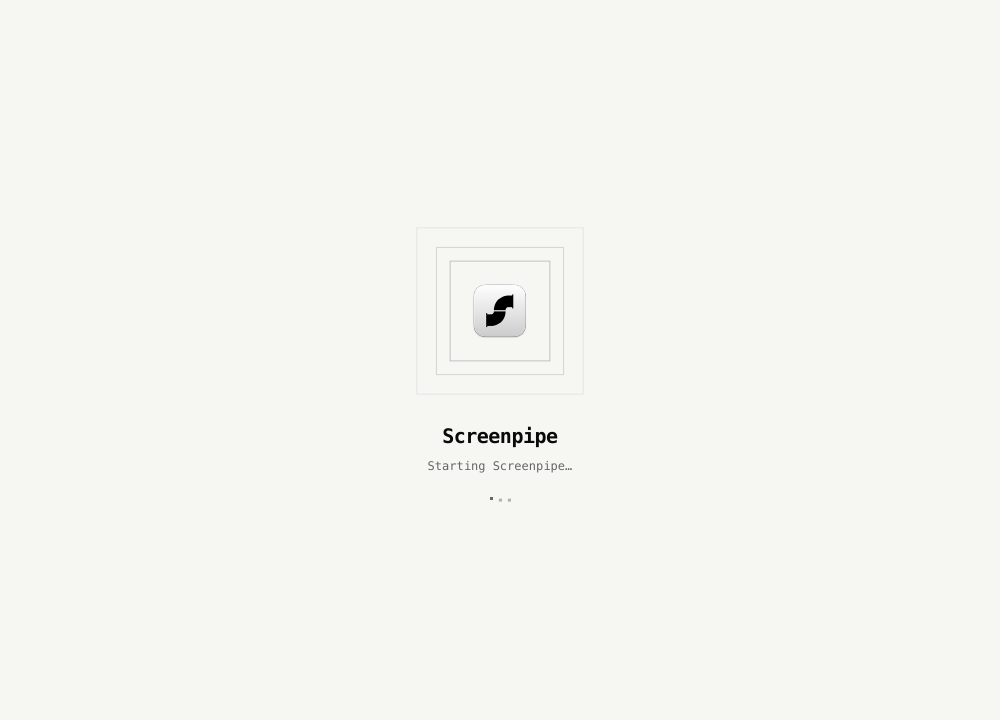
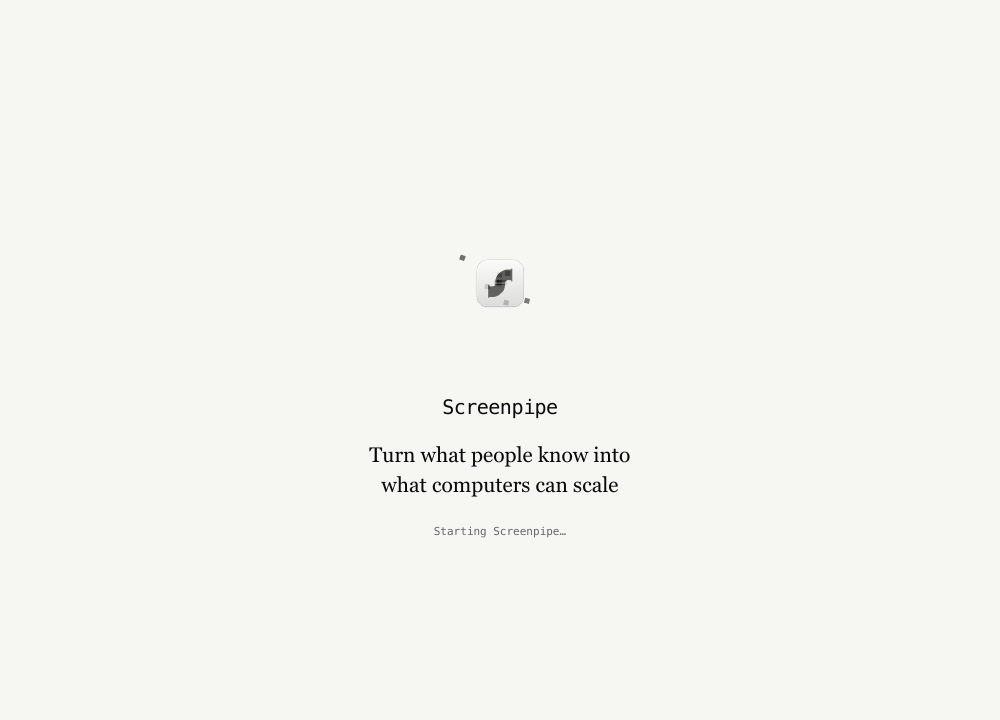
Use Fragments to focus startup motion and vision copy

Changed region(s): [[0.372, 0.55, 0.62, 0.7028], [0.434, 0.3361, 0.527, 0.4889], [0.434, 0.7333, 0.558, 0.7639]]

diff --git a/apps/screenpipe-app-tauri/components/startup-loader.module.css b/apps/screenpipe-app-tauri/components/startup-loader.module.css
@@ -3,74 +3,66 @@
 
 .mark {
   position: relative;
-  display: grid;
-  width: 184px;
-  height: 184px;
-  place-items: center;
+  width: 232px;
+  height: 210px;
 }
 
 .mark img {
-  position: relative;
-  width: 64px;
-  height: 64px;
-}
-
-.frame {
   position: absolute;
-  inset: 40px;
-  border: 1px solid currentColor;
-  opacity: 0.22;
-  animation: unfold 3.6s ease-in-out infinite;
+  left: 86px;
+  top: 75px;
+  width: 60px;
+  height: 60px;
+  animation: focus 4s ease-in-out infinite;
 }
 
-.frame:nth-child(2) {
-  inset: 24px;
-  opacity: 0.13;
-  animation-delay: -2.4s;
-}
-
-.frame:nth-child(3) {
-  inset: 8px;
-  opacity: 0.07;
-  animation-delay: -1.2s;
-}
-
-.dots {
-  display: flex;
-  gap: 6px;
-  margin-top: 24px;
-  color: hsl(var(--muted-foreground));
-}
-
-.dots span {
-  width: 3px;
-  height: 3px;
+.fragment {
+  position: absolute;
+  left: 113px;
+  top: 102px;
+  width: 5px;
+  height: 5px;
   background: currentColor;
-  opacity: 0.3;
-  animation: breathe 1.8s ease-in-out infinite;
+  opacity: 0;
+  animation: gather 4s cubic-bezier(0.4, 0, 0.2, 1) infinite;
 }
 
-.dots span:nth-child(2) {
-  animation-delay: -1.2s;
+.vision {
+  width: 100%;
+  max-width: 390px;
+  margin-top: 20px;
+  font-family: Georgia, Baskerville, serif;
+  font-size: 21px;
+  font-weight: 400;
+  line-height: 1.4;
+  text-wrap: balance;
+  animation: reveal 0.9s ease-out both;
 }
 
-.dots span:nth-child(3) {
-  animation-delay: -0.6s;
+@keyframes gather {
+  0% { transform: translate(var(--x), var(--y)) rotate(45deg); opacity: 0; }
+  15% { opacity: 0.6; }
+  58% { transform: translate(0, 0) rotate(0); opacity: 0.25; }
+  75%, 100% { transform: translate(0, 0); opacity: 0; }
 }
 
-@keyframes unfold {
-  0%, 100% { transform: scale(0.94); }
-  50% { transform: scale(1); }
+@keyframes focus {
+  0%, 100% { opacity: 0.4; transform: scale(0.94); }
+  55%, 80% { opacity: 1; transform: scale(1); }
 }
 
-@keyframes breathe {
-  0%, 100% { opacity: 0.3; transform: translateY(0); }
-  50% { opacity: 1; transform: translateY(-2px); }
+@keyframes reveal {
+  from { opacity: 0; transform: translateY(5px); }
+  to { opacity: 1; transform: translateY(0); }
 }
 
 @media (prefers-reduced-motion: reduce) {
-  .frame,
-  .dots span {
+  .fragment {
+    display: none;
+  }
+
+  .mark img,
+  .vision {
     animation: none;
   }
 }

diff --git a/apps/screenpipe-app-tauri/components/startup-loader.tsx b/apps/screenpipe-app-tauri/components/startup-loader.tsx
@@ -6,28 +6,37 @@
 import React from "react";
 import styles from "./startup-loader.module.css";
 
+const FRAGMENTS = [
+  [-90, -60], [90, 60], [30, 90], [-75, 25],
+  [70, -80], [0, -95], [95, 0], [-95, 0],
+  [-40, 80], [45, -45], [-80, -20], [75, 35],
+];
+
+type FragmentStyle = React.CSSProperties & { "--x": string; "--y": string };
+
 /** Shared presentation for startup checks. Access decisions stay in the gate. */
-export function StartupLoader({ label }: { label: string }) {
+export function StartupLoader({ label, vision }: { label: string; vision: string }) {
   return (
     <div
       className="flex min-h-screen w-full items-center justify-center bg-background px-6 text-foreground"
       role="status"
       aria-live="polite"
     >
-      <div className="flex flex-col items-center text-center">
+      <div className="flex w-full max-w-[440px] flex-col items-center text-center">
         <div className={styles.mark} aria-hidden="true">
-          <span className={styles.frame} />
-          <span className={styles.frame} />
-          <span className={styles.frame} />
-          <img src="/128x128.png" alt="" width={64} height={64} />
+          {FRAGMENTS.map(([x, y], index) => {
+            const style: FragmentStyle = {
+              "--x": `${x}px`,
+              "--y": `${y}px`,
+              animationDelay: `${index * -0.13}s`,
+            };
+            return <span key={index} className={styles.fragment} style={style} />;
+          })}
+          <img src="/128x128.png" alt="" width={60} height={60} />
         </div>
-        <h1 className="mt-5 text-xl font-semibold tracking-tight">Screenpipe</h1>
-        <p className="mt-2 text-xs text-muted-foreground">{label}</p>
-        <div className={styles.dots} aria-hidden="true">
-          <span />
-          <span />
-          <span />
-        </div>
+        <h1 className="mt-1.5 text-xl font-medium tracking-tight">Screenpipe</h1>
+        <p className={styles.vision}>{vision}</p>
+        <p className="mt-6 text-[11px] text-muted-foreground">{label}</p>
       </div>
     </div>
   );

diff --git a/apps/screenpipe-app-tauri/components/app-entitlement-gate.test.tsx b/apps/screenpipe-app-tauri/components/app-entitlement-gate.test.tsx
@@ -176,6 +176,9 @@ describe("AppEntitlementGate", () => {
     );
 
     expect(screen.getByRole("status")).toHaveTextContent("Starting Screenpipe…");
+    expect(screen.getByRole("status")).toHaveTextContent(
+      "Turn what people know into what computers can scale",
+    );
     expect(screen.queryByTestId("protected-app")).not.toBeInTheDocument();
     expect(screen.queryByText(/checking local settings/i)).not.toBeInTheDocument();
 
@@ -323,6 +326,9 @@ describe("AppEntitlementGate", () => {
     );
 
     expect(screen.getByRole("status")).toHaveTextContent("Starting Screenpipe…");
+    expect(screen.getByRole("status")).toHaveTextContent(
+      "Turn what people know into what computers can scale",
+    );
     expect(screen.queryByText(/checking access/i)).not.toBeInTheDocument();
     await new Promise((resolve) => setTimeout(resolve, 0));
     expect(mocks.stopScreenpipe).not.toHaveBeenCalled();
@@ -372,6 +378,9 @@ describe("AppEntitlementGate", () => {
     );
 
     expect(screen.getByRole("status")).toHaveTextContent("Starting Screenpipe…");
+    expect(screen.getByRole("status")).toHaveTextContent(
+      "Turn what people know into what computers can scale",
+    );
     expect(screen.queryByText(/checking enterprise access/i)).not.toBeInTheDocument();
     await new Promise((resolve) => setTimeout(resolve, 0));
     expect(mocks.stopScreenpipe).not.toHaveBeenCalled();

diff --git a/apps/screenpipe-app-tauri/components/app-entitlement-gate.tsx b/apps/screenpipe-app-tauri/components/app-entitlement-gate.tsx
@@ -691,7 +691,12 @@ export function AppEntitlementGate({
   ) : null;
 
   if (!isSettingsLoaded) {
-    return <StartupLoader label={ui("Starting Screenpipe…")} />;
+    return (
+      <StartupLoader
+        label={ui("Starting Screenpipe…")}
+        vision={ui("Turn what people know into what computers can scale")}
+      />
+    );
   }
 
   if (!shouldGate) {
@@ -719,11 +724,21 @@ export function AppEntitlementGate({
         </EntitlementShell>
       );
     }
-    return <StartupLoader label={ui("Starting Screenpipe…")} />;
+    return (
+      <StartupLoader
+        label={ui("Starting Screenpipe…")}
+        vision={ui("Turn what people know into what computers can scale")}
+      />
+    );
   }
 
   if (isManagedDeployment && authenticationState === "checking") {
-    return <StartupLoader label={ui("Starting Screenpipe…")} />;
+    return (
+      <StartupLoader
+        label={ui("Starting Screenpipe…")}
+        vision={ui("Turn what people know into what computers can scale")}
+      />
+    );
   }
 
   if (isManagedDeployment && authenticationState === "choice") {
